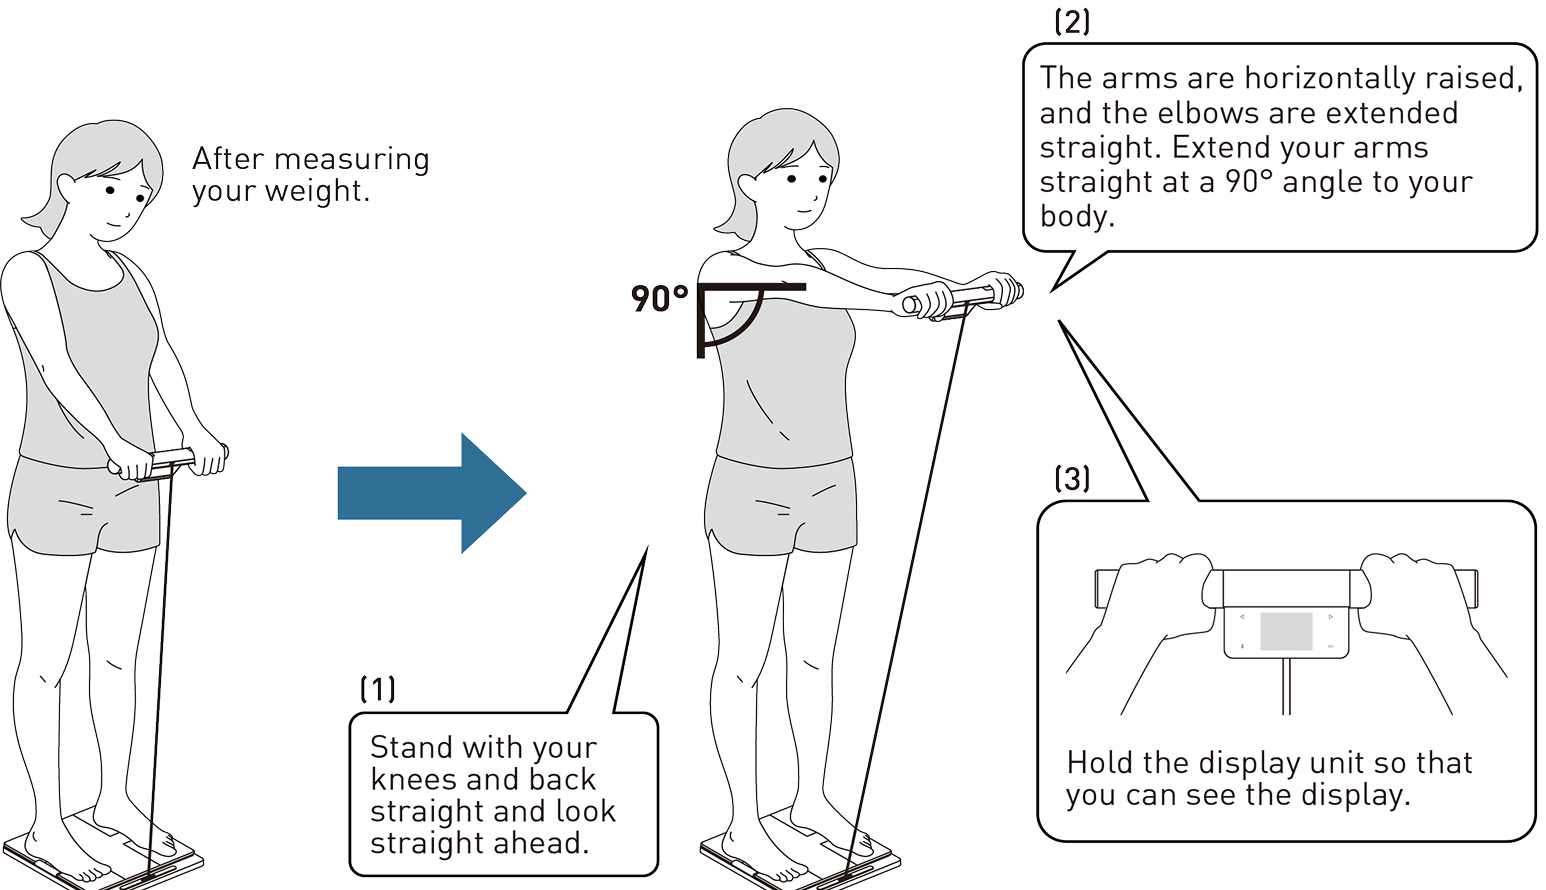
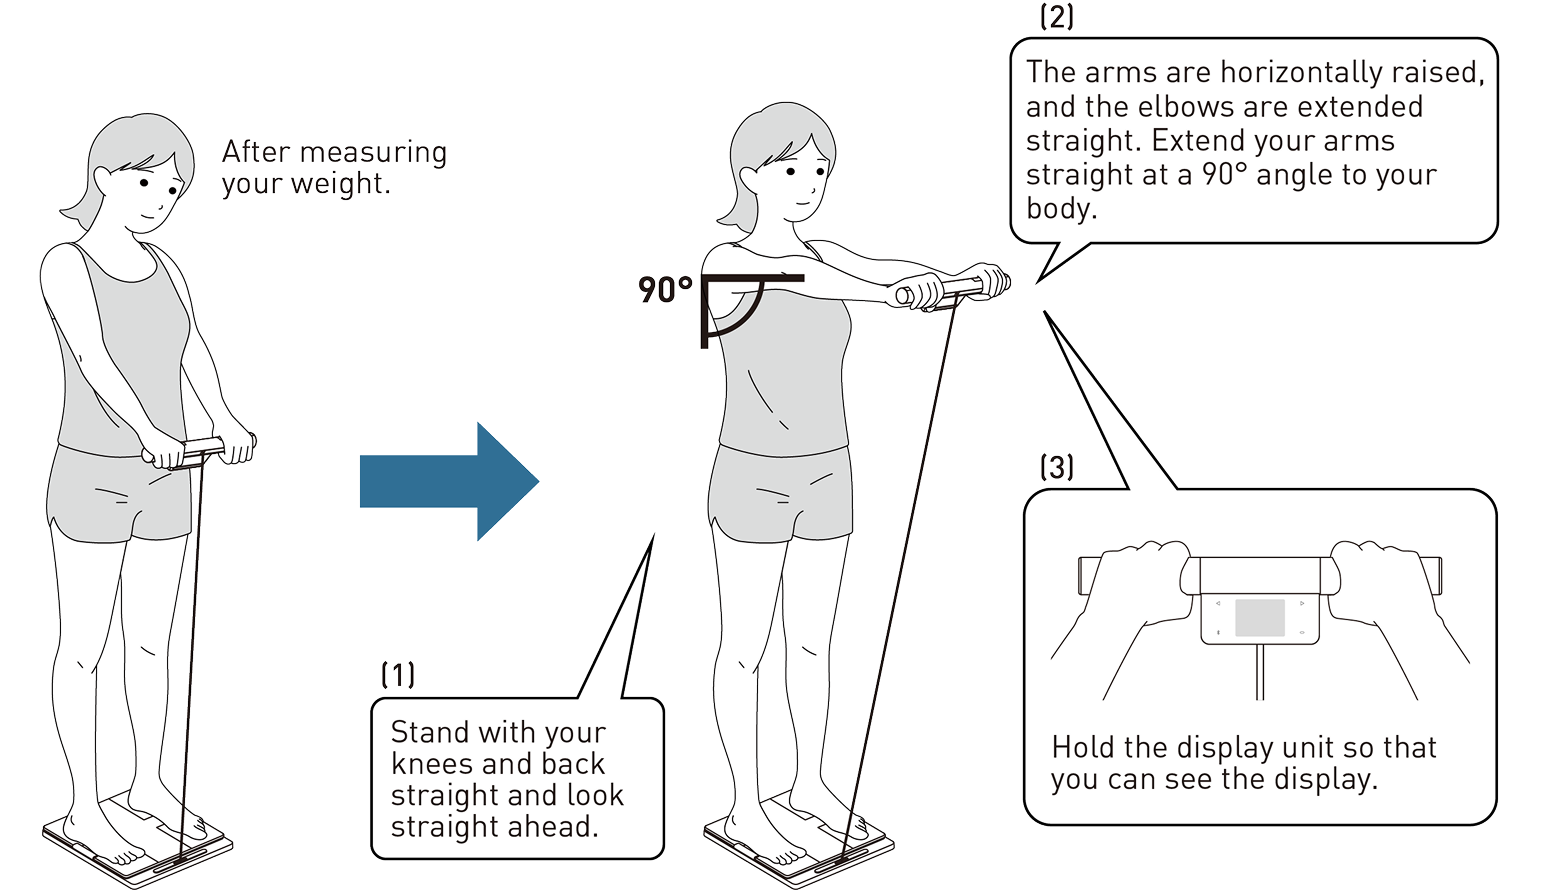
修正対応_9/2

diff --git a/src/sass/object/project/_p-manual.scss b/src/sass/object/project/_p-manual.scss
@@ -252,10 +252,10 @@
 }
 
 .p-manual__image--body-fat-scale {
-  width: calc(200 / 299 * 100%);
+  width: calc(250 / 299 * 100%);
 
   @include mq(md) {
-    width: calc(200 / 767 * 100%);
+    width: calc(250 / 767 * 100%);
   }
 }
 
@@ -263,7 +263,7 @@
   width: 100%;
 
   @include mq(md) {
-    width: calc(500 / 767 * 100%);
+    width: calc(650 / 767 * 100%);
   }
 }
 
